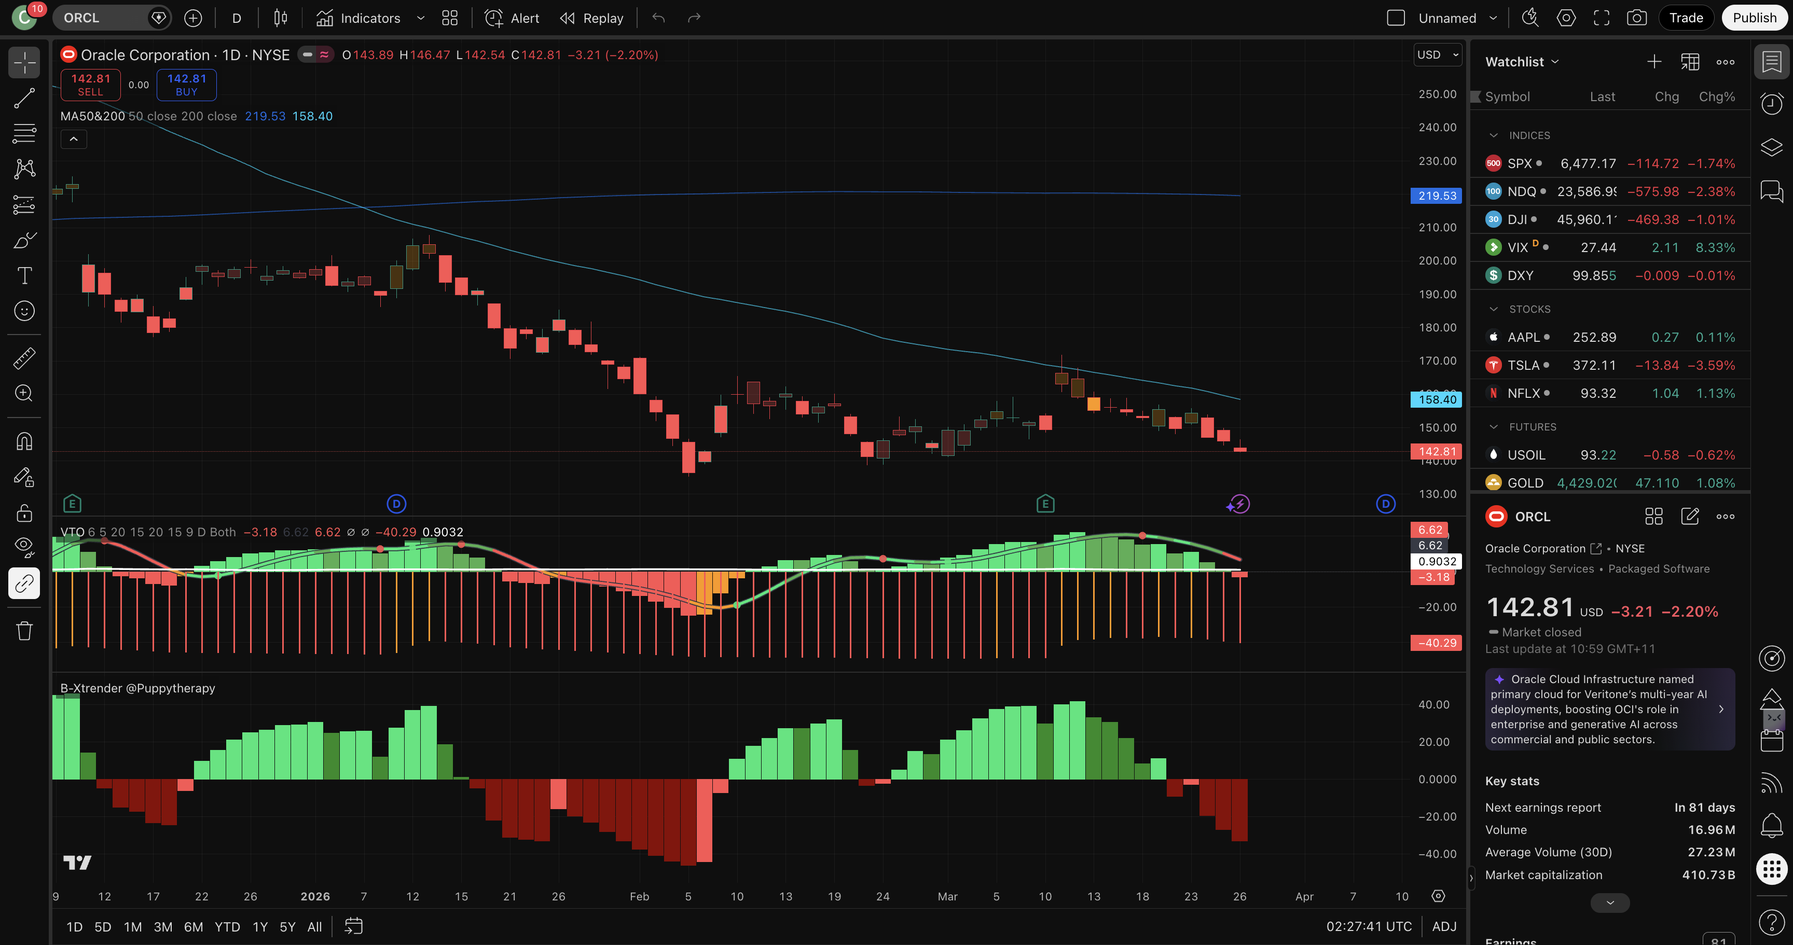
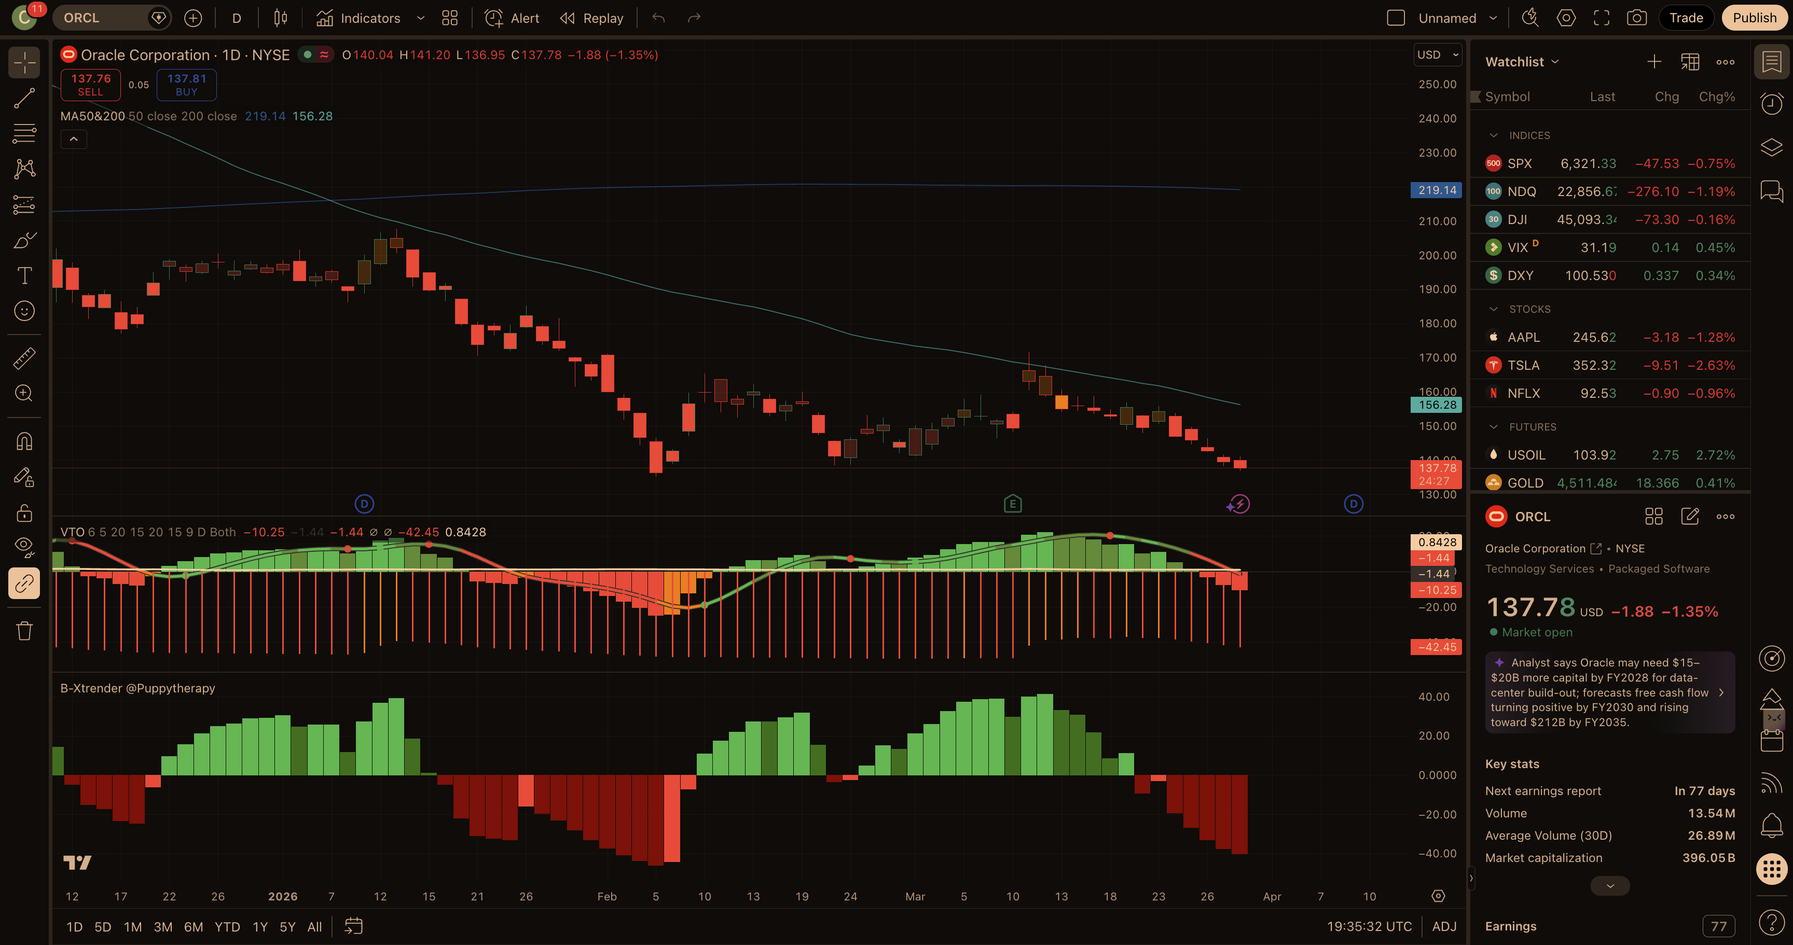
31 mar 26

diff --git a/strategies/bearish-call-spread/report.md b/strategies/bearish-call-spread/report.md
@@ -1,121 +1,136 @@
 # Bearish Call Spread — Current Report
-_Last updated: 2026-03-27_
+_Last updated: 2026-03-31_
+
+---
+
+## Scan source (this run)
+
+**User watchlist image** — 18 symbols with same-day quotes: ACN, ABBV, GILD, ADBE, NEM, PM, IBM, KO, ORCL, PG, WMT, UBER, NOW, PANW, V, ANET, AMZN, CRM.  
+This is **not** the TrendSpider scheduled scan; **earnings and RSI windows are not pre-filtered** — verify **earnings dates** and liquidity in your platform before putting on risk.
 
 ---
 
 ## Market Context
 
-The S&P 500 (via SPY) closed **below its 200-day moving average** (~−1.9% vs. the 200-day), with price also under the 50-day — consistent with a **corrective / risk-off** tape rather than a clean bull trend. **VIX** was near **27.4**, i.e. **elevated** versus long-run norms (~25+), which supports richer option premium for credit spreads but also warns of gap risk. For **bear call spreads**, this mix is **more favourable than a low-VIX melt-up**: the index is not making persistent highs above the 200-day, so “everything rips” tail risk is somewhat reduced — but single-name gap risk remains, especially in mega-cap tech after large down days.
+**SPY** is **below** its **200-day** moving average (on the order of **~4%** under the 200-day) and further under the **50-day**, consistent with a **risk-off / corrective** market. **VIX** is **above ~31**, i.e. **clearly elevated**, which helps **credit** on bear call spreads but raises **gap and tail risk**. Bearish premium-selling fits this backdrop **better** than a calm bull tape, but **size and width** should still reflect headline volatility.
+
+---
+
+## Triage (18-name quick screen)
+
+| Ticker | Disposition |
+|--------|-------------|
+| **NOW**, **PANW** | **Cut** — large **+Chg%** in your snapshot (**relief rally / reversal risk**). |
+| **KO**, **WMT**, **GILD**, **NEM** | **Cut** — **at or above** 200-day context (staples/materials **relative strength** vs bear-call thesis). |
+| **ABBV**, **PM** | **Cut** — **flat / mildly constructive** vs 200-day; less clean “failed recovery” skew. |
+| **AMZN**, **UBER**, **V**, **PG** | **Cut** — **time-box triage**: less compelling **first resistance** vs the names taken forward (kept list ≤5 for deep work). |
+| **ACN**, **IBM**, **ANET** | **Cut at research stage** — scored **below** the top three on **config.md** (A/B/C/D); **ANET** useful for shorts but **ORCL / ADBE / CRM** ranked higher on **layered MA + narrative** stack. |
+
+**Carried to full research:** **ORCL**, **ADBE**, **CRM**.
 
 ---
 
 ## Today's Top Picks
 
-### 1. UNH — Managed-care repricing; layered MA ceiling
-
-**Ticker:** UNH  
-**Current Price:** $268.05  
-**Sector:** Healthcare / Healthcare Plans  
-**Score:** 91/100 (A:37 B:25 C:14 D:15 Ded:0)
-
-**Setup Summary:**  
-UnitedHealth remains in a structural bearish sequence: first projected annual revenue contraction, elevated medical-care ratio, and ongoing headline risk (Medicare Advantage policy, DOJ scrutiny). Price is compressed under a **death cross** with the **50-day (~$294)** and **200-day (~$314)** forming a **layered ceiling**; a **$330** short call sits above both and matches a conservative “recovery fails before here” zone for a monthly credit spread.
-
-**Resistance Level:** **~$294–315** — 50-day and 200-day stack plus prior supply from the breakdown.
-
-**Suggested Spread:**  
-- **Short Call Strike:** **$330** (~≤0.20 delta target — confirm in platform) — above layered MAs / policy-capped recovery path  
-- **Long Call Strike:** **$350** — ~6% wide  
-- **Target Expiry:** **May 15, 2026** (~49 DTE)  
-- **Est. Probability of Profit:** **~84%** (delta/IV proxy — verify in platform)
-
-**Short Strike Level (Stop Reference):** **$330** — breach implies trade thesis failed (price recovered through major overhead).
-
-**Key Risks:**  
-- CMS / Medicare Advantage headline spikes  
-- Short-covering rallies from depressed levels  
-- Consensus price targets still well above spot (institutional dip-buying)
-
-**Fundamental Note:**  
-Guidance reflects a challenged margin path; investigations and sector-wide reimbursement uncertainty continue to cap the recovery narrative.
-
-**TradingView (NYSE:UNH):** VTO **sell / bearish momentum** on latest bars (red). B-Xtrender **bearish** (red histogram pressure). Screenshot: `assets/tradingview-UNH.png`. Chart confirm: **full**.
-
-![UNH TradingView](assets/tradingview-UNH.png)
-
----
-
-### 2. ORCL — AI-datacenter unwind; 50-day + pivot as first supply
+### 1. ORCL — AI spend / FCF overhang; 50-day + pivot ceiling
 
 **Ticker:** ORCL  
-**Current Price:** $142.81  
+**Current Price:** $137.78 _(your watchlist; aligns with live quote within ticks)_  
 **Sector:** Technology / Software — Infrastructure  
-**Score:** 87/100 (A:38 B:25 C:9 D:15 Ded:0)
+**Score:** 88/100 (A:39 B:25 C:6 D:18 Ded:0)
 
 **Setup Summary:**  
-Oracle is working through a **post-AI-datacenter euphoria unwind**: spot is **well below** the **200-day (~$220)** with the **declining 50-day (~$162)** and a **$170–172** pivot band as the **first meaningful supply** before higher strikes. That lines up with a **$175** short call that stays **above** visible resistance for a May monthly bear call spread.
+Oracle remains in a **deep post-hype unwind**: price is **far below** the **200-day** with the **declining 50-day (~$156)** and a **$165–172** pivot band as **first supply** before higher strikes. News flow around **data-center capital intensity** and **FCF timing** reinforces the **“recovery gets sold”** narrative, which fits a **bear call** struck **above** that zone.
 
-**Resistance Level:** **~$162–175** — 50-day MA plus recent pivot / supply shelf.
+**Resistance Level:** **~$156–172** — 50-day MA plus recent pivot / supply shelf.
 
 **Suggested Spread:**  
-- **Short Call Strike:** **$175** (~≤0.20 delta target — confirm) — at/above first supply  
-- **Long Call Strike:** **$190** — ~8.6% wide  
-- **Target Expiry:** **May 15, 2026** (~49 DTE)  
-- **Est. Probability of Profit:** **~85%** (verify)
+- **Short Call Strike:** **$170** (~≤0.20 delta target — **confirm in platform**) — at/above first overhead  
+- **Long Call Strike:** **$185** — ~8.8% wide  
+- **Target Expiry:** **May 15, 2026** (~45 DTE)  
+- **Est. Probability of Profit:** **~86%** (IV/delta proxy — **verify**)
 
-**Short Strike Level (Stop Reference):** **$175** — sustained trade above invalidates “failed bounce into supply” thesis.
+**Short Strike Level (Stop Reference):** **$170** — sustained trade above invalidates the “failed bounce into supply” thesis.
 
 **Key Risks:**  
-- Hyperscaler capex headlines reigniting AI-beta  
-- Large cloud backlog can stabilise sentiment  
-- Rich IV can expand sharply on upside gaps
+- Hyperscaler **capex / AI** headlines that reignite beta  
+- **Cloud backlog** still large — sentiment can flip on headlines  
+- **Earnings** — confirm date in platform (not pre-filtered on this scan)
 
 **Fundamental Note:**  
-Growth concerns are more narrative/multiple-driven than an imminent solvency issue — bear thesis is primarily **trend + resistance**, not distress.
+Narrative pressure on **capex and cash-flow timing**; operating business still has backlog — thesis is **technical + overhead**, not distress.
 
-**TradingView (NYSE:ORCL):** VTO **bearish / negative momentum** on latest bars. B-Xtrender **bearish** (red histogram). Screenshot: `assets/tradingview-ORCL.png`. Chart confirm: **full**.
+**TradingView (NYSE:ORCL):** VTO **bearish / negative** momentum. B-Xtrender **bearish** (red momentum building). Screenshot: `assets/tradingview-ORCL.png`. Chart confirm: **full**.
 
-![ORCL TradingView](assets/tradingview-ORCL.png)
+![ORCL](assets/tradingview-ORCL.png)
 
 ---
 
-### 3. META — Gap-down through major MAs; overhead into $650–700
+### 2. ADBE — Multiple compression; failed bounce into supply
 
-**Ticker:** META  
-**Current Price:** $547.54  
-**Sector:** Communication Services / Internet Content  
-**Score:** 80/100 (A:38 B:25 C:3 D:14 Ded:0)
+**Ticker:** ADBE  
+**Current Price:** $240.04  
+**Sector:** Technology / Software — Application  
+**Score:** 83/100 (A:38 B:25 C:9 D:16 Ded:−5)
 
 **Setup Summary:**  
-Meta shows a **violent gap-down** through the **50-day (~$647)** and **200-day (~$645)** with volume confirmation — classic **trend failure** signature for a **bear call** structured **above** the gap and supply zone. A **$700** short strike clears the **$650** zone (50-day neighbourhood) and targets **low-delta** positioning for a May expiry.
+Adobe is **trapped under** falling **50- and 200-day MAs** after a **failed rally** into the **$260s–280s supply shelf**. The **$285** short call sits **above** the **50-day (~$269–277)** and matches the **prior “Figma / growth reset”** overhead. **Elevated vol** in software supports credit, but **quality-name bounce risk** is real — structure **above** the MA cluster.
 
-**Resistance Level:** **~$645–700** — broken 200/50-day region and upper supply into round-number.
+**Resistance Level:** **~$269–285** — declining 50-day into March supply shelf.
 
 **Suggested Spread:**  
-- **Short Call Strike:** **$700** (~≤0.20 delta target — confirm) — above major broken MAs  
-- **Long Call Strike:** **$730** — ~4.3% wide  
-- **Target Expiry:** **May 15, 2026** (~49 DTE)  
-- **Est. Probability of Profit:** **~82%** (verify)
+- **Short Call Strike:** **$285** (~≤0.20 delta — **confirm**)  
+- **Long Call Strike:** **$300** — ~5.3% wide  
+- **Target Expiry:** **May 15, 2026** (~45 DTE)  
+- **Est. Probability of Profit:** **~81%** (**verify**)
 
-**Short Strike Level (Stop Reference):** **$700** — sustained strength above this zone implies the gap-down is being repaired.
+**Short Strike Level (Stop Reference):** **$285**
 
 **Key Risks:**  
-- Mega-cap **index risk-on** sessions can lift all names  
-- Regulatory headlines can move the name both ways  
-- Still profitable — **quality floor** can attract long-term buyers on dips
+- **Oversold bounce** into declining 50-day (common in software)  
+- **Product / AI** cadence can re-rate the multiple  
+- **Deduction applied:** snapshot **+Chg%** in your table — short-term **relief rally** risk (**−5** “support/bounce proximity” style)
 
 **Fundamental Note:**  
-Profitability remains strong; the trade thesis is **price trend + overhead supply**, not a broken business model.
+Cash-generative franchise; bearish driver is **growth / multiple** reset, not solvency.
 
-**TradingView (NASDAQ:META):** VTO **bearish momentum** (negative / red). B-Xtrender **bearish** (red histogram). Screenshot: `assets/tradingview-META.png`. Chart confirm: **full**.
+**TradingView (NASDAQ:ADBE):** VTO **deep red / bearish**. B-Xtrender **red**, momentum **re-accelerating** off late consolidation. Screenshot: `assets/tradingview-ADBE.png`. Chart confirm: **full**.
 
-![META TradingView](assets/tradingview-META.png)
+![ADBE](assets/tradingview-ADBE.png)
 
 ---
 
-## Triage (quick screen)
+### 3. CRM — Broken SaaS trend; 50-day zone as first ceiling
 
-**Cut / deprioritised (examples):** **MU** — extreme strength vs 200-day (momentum leader; poor fit for “fade the recovery”); **AAPL, KO, PEP, WMT, GILD, NEM, RTX, SBUX** — trading at or **above** the 200-day (recovery skew vs bearish credit); **NVDA, TSLA** — headline/gamma tail risk for short-dated calls. **QCOM** scored well on fundamentals, but **TradingView B-Xtrender** showed **bullish** (green) territory on the **latest bar** — **substituted by META** to reach **three fully chart-confirmed** names.
+**Ticker:** CRM  
+**Current Price:** $183.68  
+**Sector:** Technology / Software — Application  
+**Score:** 78/100 (A:36 B:25 C:6 D:11 Ded:0)
+
+**Setup Summary:**  
+Salesforce shows a **clean large-cap SaaS breakdown**: price is **well below** the **200-day** with the **50-day (~$199–206)** as the **first meaningful rally ceiling** before the **lower 200-day (~$239)**. A **$220** short call clears the **$200–210** congestion and targets a **low-delta** structure on **May** monthly.
+
+**Resistance Level:** **~$199–220** — 50-day neighbourhood into breakdown supply.
+
+**Suggested Spread:**  
+- **Short Call Strike:** **$220** (~≤0.20 delta — **confirm**)  
+- **Long Call Strike:** **$235** — ~6.8% wide  
+- **Target Expiry:** **May 15, 2026** (~45 DTE)  
+- **Est. Probability of Profit:** **~84%** (**verify**)
+
+**Short Strike Level (Stop Reference):** **$220**
+
+**Key Risks:**  
+- **Agentic AI / product** headlines lifting software beta  
+- **Enterprise deal strength** can stabilise sentiment  
+- Confirm **earnings** in platform
+
+**Fundamental Note:**  
+Profitable, still-growing core — thesis is **trend + MA overhead**, not fundamental collapse.
+
+**TradingView (NYSE:CRM):** VTO **negative / bearish pressure**. B-Xtrender **red** (bearish territory on latest bars). Screenshot: `assets/tradingview-CRM.png`. Chart confirm: **full**.
+
+![CRM](assets/tradingview-CRM.png)
 
 ---
 
@@ -123,54 +138,51 @@ Profitability remains strong; the trade thesis is **price trend + overhead suppl
 
 _Recommendations from the last 14 days with no outcome recorded yet._
 
-| Date | Ticker | Entry Price | Short Strike | Setup Summary |
+| Date | Ticker | Entry | Short Strike | Setup (abridged) |
 |---|---|---|---|---|
-| 2026-03-17 | UNH | $285.78 | $300 – 50-day MA (~$299.50) / death cross ceiling | Short $300/$315 call spread / Apr 2026 (~31 DTE) / ~85% PoP / Death cross confirmed; first projected annual revenue cont… |
-| 2026-03-17 | JPM | $286.26 | $310 – 50-day MA (~$312) / broken 200-day MA ($297.55) resistance cluster | Short $310/$325 call spread / Apr 2026 (~31 DTE) / ~81% PoP / Broken below 200-day MA ($297.55) — now resistance; 50-day… |
-| 2026-03-17 | BA | $213.88 | $240 – 50-day MA ($240.20) / prior supply zone from February breakdown | Short $240/$255 call spread / Apr 2026 (~31 DTE) / ~87% PoP / Below both 50-day ($240.20) and 200-day ($219.90) MAs; MFI… |
-| 2026-03-19 | UNH | $283.70 | $330 – above 200-day MA ($314.48) / prior breakdown ceiling | Short $330/$345 call spread / Apr 2026 (~36 DTE) / ~83% PoP / Managed-care margin pressure, DOJ scrutiny, and a layered … |
-| 2026-03-19 | TSLA | $393.22 | $450 – above 50-day MA ($417.61) / failed-bounce supply zone | Short $450/$475 call spread / Apr 2026 (~36 DTE) / ~82% PoP / Delivery-growth expectations keep getting cut, IV remains … |
-| 2026-03-19 | CVS | $73.07 | $83 – above 50-day MA ($77.91) / recent 60-day high zone | Short $83/$90 call spread / Apr 2026 (~36 DTE) / ~77% PoP / Medicare Advantage rate pressure keeps the sector under stre… |
-| 2026-03-21 | ADBE | $248.15 | $285 – above 50-day MA (~$276) / March supply shelf | Short $285/$300 call spread / Apr 2026 (~30 DTE) / ~82% PoP / Post-Figma trade narrative still caps multiples; price tra… |
-| 2026-03-21 | ORCL | $149.68 | $175 – below 200-day MA (~$220) / pre-breakdown pivot zone | Short $175/$190 call spread / Apr 2026 (~30 DTE) / ~84% PoP / AI-datacenter euphoria unwind leaves ORCL below both major… |
-| 2026-03-21 | NOW | $110.38 | $125 – 50-day MA (~$116) + recent bounce failure zone | Short $125/$135 call spread / Apr 2026 (~30 DTE) / ~86% PoP / Workflow automation demand is fine, but the chart is a cle… |
-| 2026-03-23 | ORCL | $149.68 | $175 – 50-day MA (~$162) / $170–172 pivot below 200-day (~$219) | Short $175/$190 call spread / Apr 17 2026 (~25 DTE) / ~82–84% PoP est / Price ~32% below 200-day; first durable supply i… |
-| 2026-03-23 | ADBE | $248.15 | $285 – 50-day MA (~$277) / March supply shelf into $275–$290 | Short $285/$300 call spread / Apr 17 2026 (~25 DTE) / ~80–83% PoP est / Trapped under falling 50/200-day MAs; nearest ha… |
-| 2026-03-23 | NOW | $110.38 | $128 – above 50-day MA (~$117) / $120–126 January pivot band | Short $128/$140 call spread / Apr 17 2026 (~25 DTE) / ~84–86% PoP est / Large-cap SaaS breakdown: lower highs with first… |
-| 2026-03-24 | META | $606.49 | $700 – above 50-day MA (~$649) / supply into prior 200-day zone (~$689) | Short $700/$720 call spread / Apr 17 2026 (~24 DTE) / ~82% PoP est / Well below declining 50- and 200-day MAs; layered o… |
-| 2026-03-24 | ADBE | $247.81 | $285 – 50-day MA (~$276) / March supply shelf into high-$260s–$280 | Short $285/$300 call spread / Apr 17 2026 (~24 DTE) / ~80–83% PoP est / Trapped under falling 50/200-day MAs; Apr17 285c… |
-| 2026-03-24 | NOW | $111.21 | $128 – above 50-day MA (~$116) / $120–126 January pivot band | Short $128/$140 call spread / Apr 17 2026 (~24 DTE) / ~84–86% PoP est / Large-cap SaaS breakdown: first durable supply a… |
-| 2026-03-27 | UNH | $268.05 | $330 – above 200-day MA (~$314) / 50-day ceiling (~$294) | Short $330/$350 call spread / May 15 2026 (~49 DTE) / ~84% PoP est / Death cross; layered MA ceiling; Medicare/DOJ headl… |
-| 2026-03-27 | ORCL | $142.81 | $175 – 50-day MA (~$162) / $170–172 pivot below 200-day (~$220) | Short $175/$190 call spread / May 15 2026 (~49 DTE) / ~85% PoP est / Post-AI-datacenter unwind; first durable supply at … |
-| 2026-03-27 | META | $547.54 | $700 – above 50-day MA (~$647) / gap & supply into $600–680 zone | Short $700/$730 call spread / May 15 2026 (~49 DTE) / ~82% PoP est / Large gap-down through major MAs; layered overhead … |
+| 2026-03-21 | ADBE | $248.15 | $285 – above 50-day MA (~$276) / March supply shelf | Short $285/$300 call spread / Apr 2026 (~30 DTE) / ~82% PoP / Post-Figma trade narrative still caps … |
+| 2026-03-21 | ORCL | $149.68 | $175 – below 200-day MA (~$220) / pre-breakdown pivot zone | Short $175/$190 call spread / Apr 2026 (~30 DTE) / ~84% PoP / AI-datacenter euphoria unwind leaves O… |
+| 2026-03-21 | NOW | $110.38 | $125 – 50-day MA (~$116) + recent bounce failure zone | Short $125/$135 call spread / Apr 2026 (~30 DTE) / ~86% PoP / Workflow automation demand is fine, bu… |
+| 2026-03-23 | ORCL | $149.68 | $175 – 50-day MA (~$162) / $170–172 pivot below 200-day (~$219) | Short $175/$190 call spread / Apr 17 2026 (~25 DTE) / ~82–84% PoP est / Price ~32% below 200-day; fi… |
+| 2026-03-23 | ADBE | $248.15 | $285 – 50-day MA (~$277) / March supply shelf into $275–$290 | Short $285/$300 call spread / Apr 17 2026 (~25 DTE) / ~80–83% PoP est / Trapped under falling 50/200… |
+| 2026-03-23 | NOW | $110.38 | $128 – above 50-day MA (~$117) / $120–126 January pivot band | Short $128/$140 call spread / Apr 17 2026 (~25 DTE) / ~84–86% PoP est / Large-cap SaaS breakdown: lo… |
+| 2026-03-24 | META | $606.49 | $700 – above 50-day MA (~$649) / supply into prior 200-day zone (~$689) | Short $700/$720 call spread / Apr 17 2026 (~24 DTE) / ~82% PoP est / Well below declining 50- and 20… |
+| 2026-03-24 | ADBE | $247.81 | $285 – 50-day MA (~$276) / March supply shelf into high-$260s–$280 | Short $285/$300 call spread / Apr 17 2026 (~24 DTE) / ~80–83% PoP est / Trapped under falling 50/200… |
+| 2026-03-24 | NOW | $111.21 | $128 – above 50-day MA (~$116) / $120–126 January pivot band | Short $128/$140 call spread / Apr 17 2026 (~24 DTE) / ~84–86% PoP est / Large-cap SaaS breakdown: fi… |
+| 2026-03-27 | UNH | $268.05 | $330 – above 200-day MA (~$314) / 50-day ceiling (~$294) | Short $330/$350 call spread / May 15 2026 (~49 DTE) / ~84% PoP est / Death cross; layered MA ceiling… |
+| 2026-03-27 | ORCL | $142.81 | $175 – 50-day MA (~$162) / $170–172 pivot below 200-day (~$220) | Short $175/$190 call spread / May 15 2026 (~49 DTE) / ~85% PoP est / Post-AI-datacenter unwind; firs… |
+| 2026-03-27 | META | $547.54 | $700 – above 50-day MA (~$647) / gap & supply into $600–680 zone | Short $700/$730 call spread / May 15 2026 (~49 DTE) / ~82% PoP est / Large gap-down through major MA… |
+| 2026-03-31 | ORCL | $137.78 | $170 – 50-day MA (~$156) / supply into $165–172 pivot | Short $170/$185 call spread / May 15 2026 (~45 DTE) / ~86% PoP est / AI capex/FCF narrative pressure… |
+| 2026-03-31 | ADBE | $240.04 | $285 – 50-day MA (~$269–277) / March supply shelf into high-$260s | Short $285/$300 call spread / May 15 2026 (~45 DTE) / ~81% PoP est / Trapped under falling 50/200-da… |
+| 2026-03-31 | CRM | $183.68 | $220 – 50-day MA (~$199–206) / breakdown supply zone below 200-day (~$239) | Short $220/$235 call spread / May 15 2026 (~45 DTE) / ~84% PoP est / Large-cap SaaS downtrend; first… |
 
 ---
 
 ## Performance Summary
 
-_All checked trades (outcome recorded at 14-day mark)._
+_All checked trades (outcome recorded at 14-day mark: spot vs short strike)._
 
 | Date | Ticker | Entry Price | Price at 14 Days | % Move | Short Strike | Result |
 |---|---|---|---|---|---|---|
-| 2026-03-07 | ABT | $108.66 | $105.46 | −2.95% | $120 | WIN |
-| 2026-03-07 | TSLA | $394.68 | $367.96 | −6.77% | $480 | WIN |
-| 2026-03-07 | KKR | $90.99 | $90.00 | −1.09% | $105 | WIN |
-| 2026-03-07 | UNH | $284.75 | $275.59 | −3.22% | $315 | WIN |
-| 2026-03-07 | MS | $160.47 | $161.47 | 0.62% | $180 | WIN |
-| 2026-03-07 | DIS | $101.66 | $99.51 | −2.12% | $115 | WIN |
-| 2026-03-11 | QCOM | $134.55 | $129.90 | −3.46% | $155 | WIN |
-| 2026-03-11 | JPM | $286.65 | $286.56 | −0.03% | $310 | WIN |
-| 2026-03-11 | CVS | $76.46 | $71.48 | −6.51% | $83 | WIN |
+| 2026-03-07 | ABT | $108.66 | $105.46 | -2.95% | $120 – 50-day MA / analyst target ceilin… | WIN |
+| 2026-03-07 | TSLA | $394.68 | $367.96 | -6.77% | $480 – hard supply resistance zone… | WIN |
+| 2026-03-07 | KKR | $90.99 | $90.00 | -1.09% | $105 – prior support/resistance breakdow… | WIN |
+| 2026-03-07 | UNH | $284.75 | $275.59 | -3.22% | $315 – between 50-day ($299.50) and 200-… | WIN |
+| 2026-03-07 | MS | $160.47 | $161.47 | 0.62% | $180 – near 50-day SMA ($181.70)… | WIN |
+| 2026-03-07 | DIS | $101.66 | $99.51 | -2.12% | $115 – 20/50-day SMA cluster resistance… | WIN |
+| 2026-03-11 | QCOM | $134.55 | $129.90 | -3.46% | $155 – 50-day MA ($153.41) / Apple modem… | WIN |
+| 2026-03-11 | JPM | $286.65 | $286.56 | -0.03% | $310 – 50-day MA ($312.43) / broken 200-… | WIN |
+| 2026-03-11 | CVS | $76.46 | $71.48 | -6.51% | $83 – 50-day MA zone / 52-week high resi… | WIN |
+| 2026-03-17 | UNH | $285.78 | $260.19 | -8.96% | $300 – 50-day MA (~$299.50) / death cros… | WIN |
+| 2026-03-17 | JPM | $286.26 | $282.52 | -1.30% | $310 – 50-day MA (~$312) / broken 200-da… | WIN |
+| 2026-03-17 | BA | $213.88 | $188.08 | -12.06% | $240 – 50-day MA ($240.20) / prior suppl… | WIN |
+| 2026-03-19 | UNH | $283.70 | $260.19 | -8.29% | $330 – above 200-day MA ($314.48) / prio… | WIN |
+| 2026-03-19 | TSLA | $393.22 | $352.40 | -10.38% | $450 – above 50-day MA ($417.61) / faile… | WIN |
+| 2026-03-19 | CVS | $73.07 | $69.55 | -4.82% | $83 – above 50-day MA ($77.91) / recent … | WIN |
 
 ### Aggregate Stats
 
-- **Total checked:** 9  
-- **Win rate (stock below short strike at 14 days):** 100%  
-- **Average stock % move on wins:** −2.84%  
+- **Total checked:** 15  
+- **Win rate (spot below short strike at 14 days):** 100%  
+- **Average stock % move on wins:** -4.76%  
 - **Average stock % move on losses:** _n/a (no losses in sample)_  
-
----
-
-## Chart substitution note
-
-**QCOM** was on the numeric shortlist after scoring, but **did not** meet **full** bearish **B-Xtrender** confirmation (latest bar **green / bullish** in the screenshot review). **META** was used as the **third** pick so all three final recommendations have **full** VTO + B-Xtrender alignment per the **read-tradingview-chart** skill.
